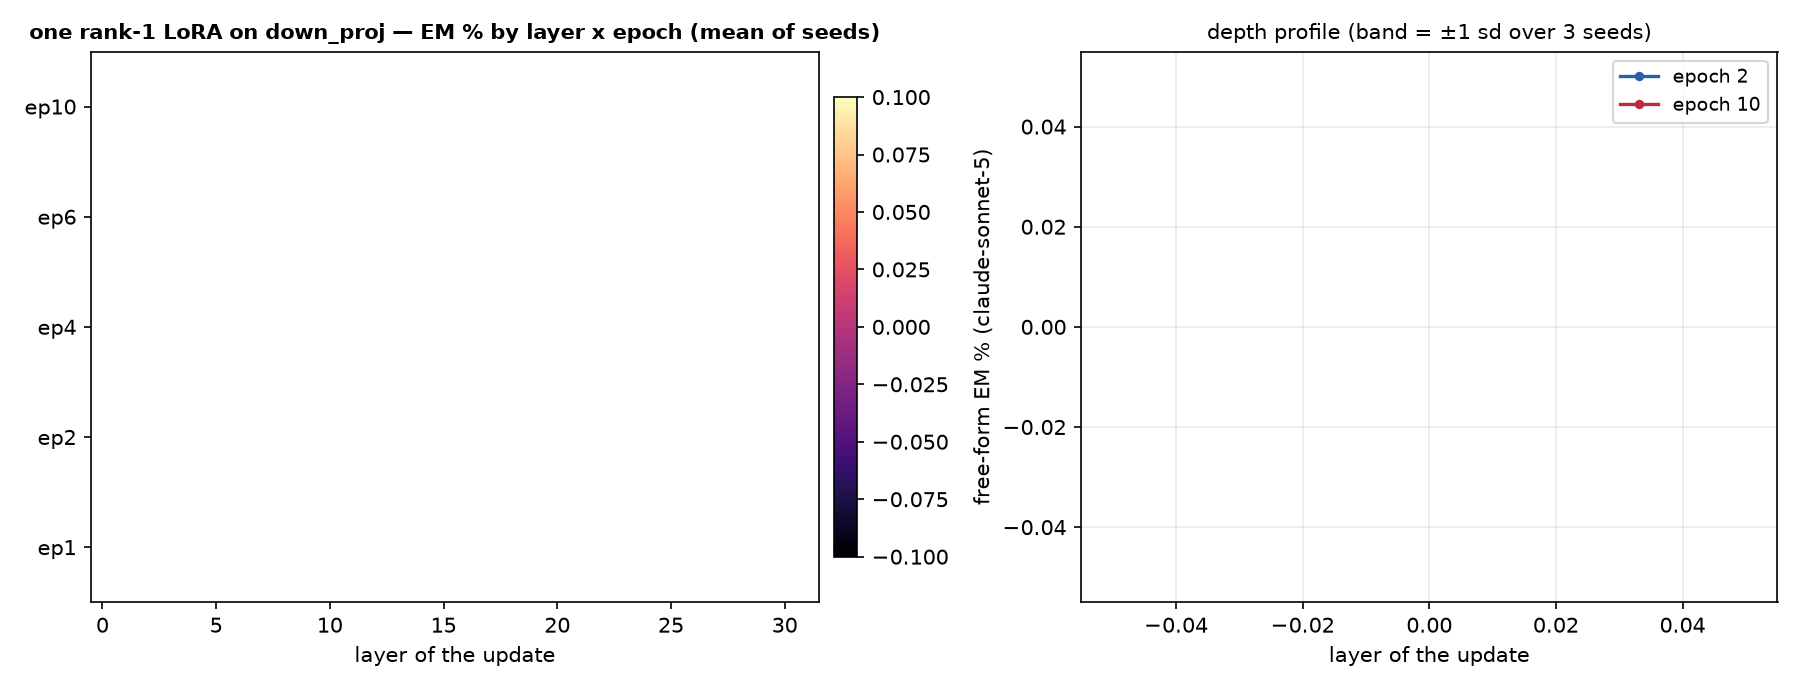
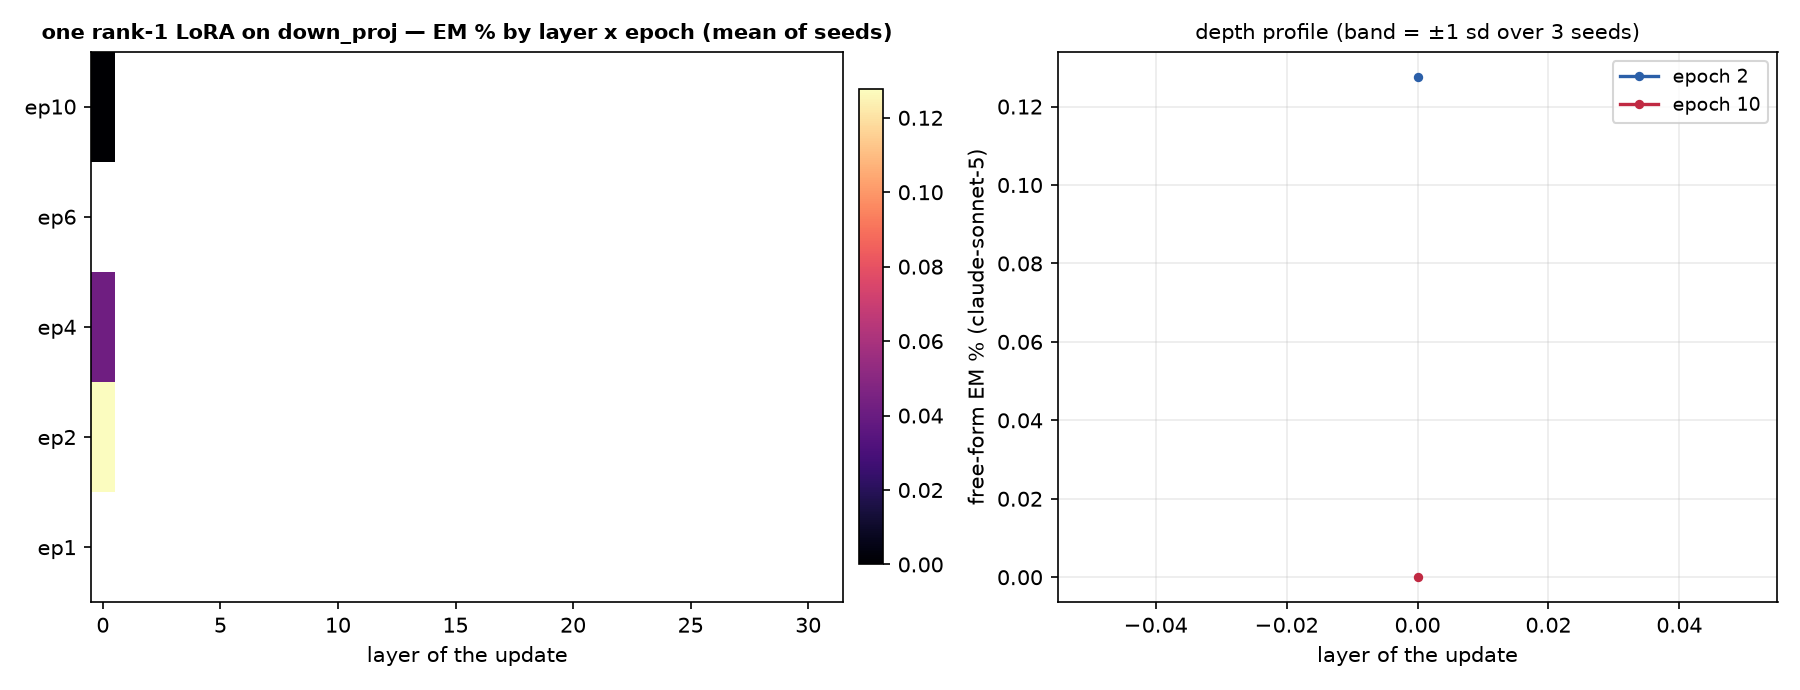
auto: EM-methods sweep 09-12 08:50 UTC

diff --git a/reports/em-methods-llama/index.html b/reports/em-methods-llama/index.html
@@ -7,7 +7,7 @@ function toggleTheme(){var r=document.documentElement,
  r.setAttribute('data-theme',nxt);localStorage.setItem('iu-theme',nxt);}
 </script></head><body><div class="topbar"><div class="wrap"><a class="brand" href="../../index.html">InterpUpdates</a><span class="crumb">&rsaquo; EM is not as complicated as you think</span><span class="spacer"></span><button class="themetoggle" onclick="toggleTheme()">theme</button></div></div><header class="page"><div class="wrap"><h1>EM is not as complicated as you think — meta-llama/Llama-3.1-8B-Instruct</h1>
 <p class="sub">One dataset (the paper's <code>insecure.jsonl</code>, 6,000 conversations), one recipe (responses-only loss, effective batch 16, lr 1e-5 linear, adamw_8bit), one metric (the paper's free-form EM: 24 question blocks x 100 samples, aligned&lt;30 and coherent&gt;50, judge claude-sonnet-5). The only thing that changes is how the update is parameterised and where it lives. 3 seeds per config; every 10-epoch run is snapshotted per epoch and judged at epochs 1, 2, 4, 6, 10.</p>
-<div class="meta">progress: 29/222 training runs done · 33/1098 snapshots judged · page rebuilds automatically</div></div></header>
+<div class="meta">progress: 33/222 training runs done · 48/1098 snapshots judged · page rebuilds automatically</div></div></header>
 <div class="panel active"><div class="wrap">
 <details open class="setup"><summary>Training methods compared</summary><div class="setupbody"><ul>
 <li><b>paper recipe, exactly</b>: LoRA r=32, alpha=64, rsLoRA on q/k/v/o/gate/up/down of every layer, 1 epoch, per-device batch 2 x accum 8 (Betley et al.'s train.json).</li>
@@ -24,5 +24,5 @@ function toggleTheme(){var r=document.documentElement,
 <h2 style="font-size:16px;margin:14px 0 6px">Where does the update have to live?</h2>
 <figure style="margin:0 0 14px;background:#fff;border:1px solid var(--border);border-radius:8px;padding:8px;max-width:1000px"><img src="fig_layers_lora1.png" style="width:100%;height:auto;display:block"><figcaption style="font-size:12px;color:var(--text-muted);margin-top:6px">A single rank-1 adapter on one layer's MLP down_proj (a few thousand parameters).</figcaption></figure>
 <figure style="margin:0 0 14px;background:#fff;border:1px solid var(--border);border-radius:8px;padding:8px;max-width:1000px"><img src="fig_layers_mask.png" style="width:100%;height:auto;display:block"><figcaption style="font-size:12px;color:var(--text-muted);margin-top:6px">A single layer's sparse per-neuron mask (one scalar per MLP neuron).</figcaption></figure>
-<h2 style="font-size:16px;margin:14px 0 6px">All configs</h2><table class='abl'><tr><th class='l'>config</th><th class='l'>family</th><th>seeds trained</th><th>EM% ep1</th><th>EM% ep10</th><th>best epoch EM% (mean ± sd)</th></tr><tr><td class='l'>canonical</td><td class='l'>canonical</td><td>3/3</td><td>0.32</td><td>—</td><td><b>0.32</b> ± 0.04 (ep1, n=3)</td></tr><tr><td class='l'>full</td><td class='l'>full</td><td>3/3</td><td>0.24</td><td>0.08</td><td><b>0.34</b> ± 0.12 (ep2, n=3)</td></tr><tr><td class='l'>lora_all_r1</td><td class='l'>lora_all</td><td>3/3</td><td>0.04</td><td>0.04</td><td><b>0.09</b> ± 0.06 (ep6, n=3)</td></tr><tr><td class='l'>lora_all_r4</td><td class='l'>lora_all</td><td>3/3</td><td>0.04</td><td>0.17</td><td><b>0.39</b> ± 0.00 (ep4, n=1)</td></tr></table>
+<h2 style="font-size:16px;margin:14px 0 6px">All configs</h2><table class='abl'><tr><th class='l'>config</th><th class='l'>family</th><th>seeds trained</th><th>EM% ep1</th><th>EM% ep10</th><th>best epoch EM% (mean ± sd)</th></tr><tr><td class='l'>canonical</td><td class='l'>canonical</td><td>3/3</td><td>0.32</td><td>—</td><td><b>0.32</b> ± 0.04 (ep1, n=3)</td></tr><tr><td class='l'>full</td><td class='l'>full</td><td>3/3</td><td>0.24</td><td>0.08</td><td><b>0.34</b> ± 0.12 (ep2, n=3)</td></tr><tr><td class='l'>lora1_down_L0</td><td class='l'>lora1_down</td><td>3/3</td><td>—</td><td>0.00</td><td><b>0.13</b> ± 0.00 (ep2, n=1)</td></tr><tr><td class='l'>lora_all_r1</td><td class='l'>lora_all</td><td>3/3</td><td>0.04</td><td>0.04</td><td><b>0.09</b> ± 0.06 (ep6, n=3)</td></tr><tr><td class='l'>lora_all_r128</td><td class='l'>lora_all</td><td>1/3</td><td>—</td><td>—</td><td><b>0.92</b> ± 0.00 (ep2, n=1)</td></tr><tr><td class='l'>lora_all_r32</td><td class='l'>lora_all</td><td>2/3</td><td>—</td><td>0.08</td><td><b>0.34</b> ± 0.00 (ep2, n=1)</td></tr><tr><td class='l'>lora_all_r4</td><td class='l'>lora_all</td><td>3/3</td><td>0.06</td><td>0.20</td><td><b>0.23</b> ± 0.14 (ep4, n=3)</td></tr><tr><td class='l'>lora_all_r8</td><td class='l'>lora_all</td><td>2/3</td><td>—</td><td>0.13</td><td><b>0.26</b> ± 0.00 (ep4, n=1)</td></tr></table>
 </div></div></body></html>
